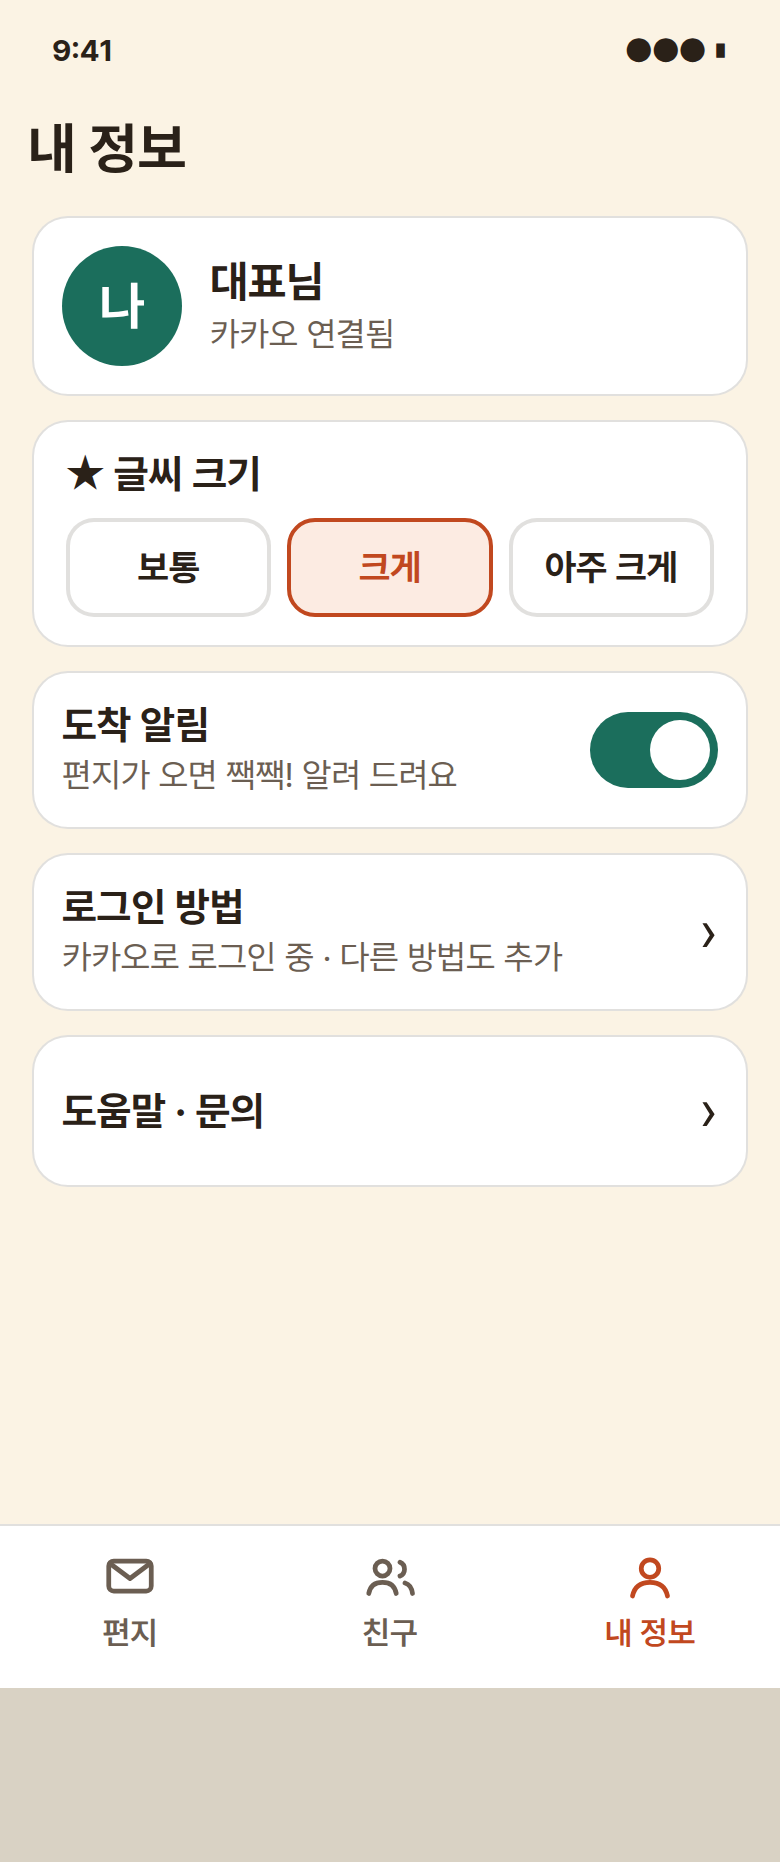
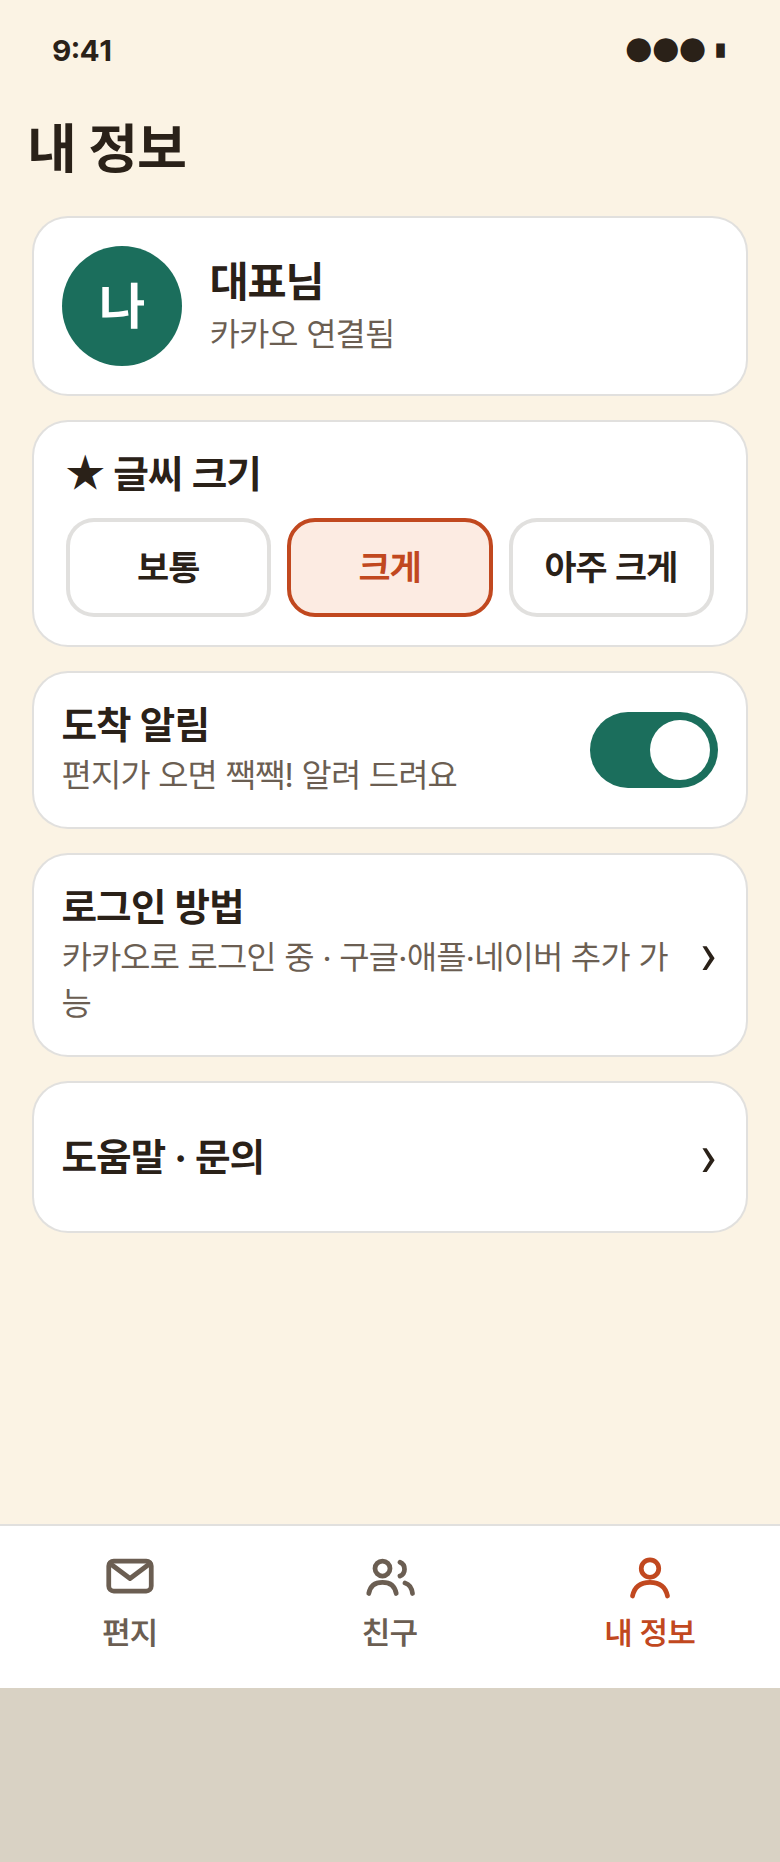
라인 로그인은 한국 출시에서 제외(시안·문서 반영)
Claude-Session: https://claude.ai/code/session_01GA1ocwaYjo7gRcQeBhuum6

Changed region(s): [[0.0308, 0.4984, 0.9846, 0.6853]]

diff --git a/CLAUDE.md b/CLAUDE.md
@@ -45,7 +45,7 @@
 **새편지의 포인트는 "기다림의 미학"이다.** 쿠팡처럼 바로 가는 것에 익숙해져서 요즘 사람들이 잃어버린 기다리는 감성을 되살리는 것이 목적. 모든 기능·문구·연출(애니메이션 포함)은 **기다림을 더 설레게 하는 쪽**으로 정하고, 기다림을 없애거나 줄이는 방향(즉시 도착, 도착 시간 단축 결제 등)은 피한다.
 - 연출 방향: **돌돌 말린 편지와 사진이 펼쳐지는 효과**(편지는 두루마리, 사진은 폴라로이드가 서서히 선명해짐), 예약 발송(정한 날 출발, **출발 전에는 받는 사람에게 보이지 않음**), 도착을 기다리는 지도·시각표.
 - 사진은 **폴라로이드 틀**로 보내고 받는 사람이 폰에 저장할 수 있다(촬영 위치 같은 숨은 정보는 지움).
-- 소셜 로그인은 **구글·카카오·네이버·애플·라인** 모두 넣는다(한국에서 시작해 일본·중국 등으로 확장 계획 → 나라별 로그인 확장 고려, 중국은 별도 확인 필요).
+- 소셜 로그인은 **카카오·구글·네이버·애플**(2026-10-15 사용자 결정: **라인은 한국 출시에서 제외**, 일본 등 해외 진출 때 추가). 로그인이 곧 시작(가입)이고 **친구 코드는 화면에서 없앰**(카카오톡 초대 링크 → 링크 누른 친구가 로그인하면 자동 친구 연결). 카카오톡 친구 목록 가져오기는 카카오 심사가 필요해서(앱을 쓰는 친구만 나옴) 출시 뒤로. 화면 시안은 `docs/시안/`(그림 `images/`, 실행 `npx tsx docs/시안/build.mts`) — **개발 전에 시안을 대표님이 확인**.
 - 카카오톡에서 링크를 누르면 **앱이 있으면 앱으로 바로** 열리게 한계 없이 시도한다(카카오링크 포함). 한계가 확인되면 웹 [앱에서 열기]로 보완.
 - 구청 확인(통신판매업) 전에는 UI Designer(스토어 시안) 작업을 하지 않고, **구청 확인 상황은 작업 시작 전에 먼저 보고**한다.
 
